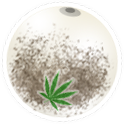
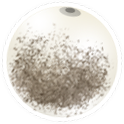
Bag and collectibles size

Changed region(s): [[0.2903, 0.5565, 0.6532, 0.8952]]

diff --git a/levels.js b/levels.js
@@ -38,7 +38,7 @@ var levels = [
                     flip: 0,
                     position: {x: 22, y: 13},
                     r: 45,
-                    size: {w: 0.5, h: 0.5},
+                    size: {w: 1, h: 1},
                     origin: {x: .25, h: .25}
                 },
                 {
@@ -47,7 +47,7 @@ var levels = [
                     flip: 0,
                     position: {x: 24, y: 13},
                     r: 45,
-                    size: {w: 0.5, h: 0.5},
+                    size: {w: 1, h: 1},
                     origin: {x: .25, h: .25}
                 },
                 {
@@ -56,7 +56,7 @@ var levels = [
                     flip: 0,
                     position: {x: 20, y: 13},
                     r: 45,
-                    size: {w: 0.5, h: 0.5},
+                    size: {w: 1, h: 1},
                     origin: {x: .25, h: .25}
                 }            ]
       }

diff --git a/http-server/public/levels.js b/http-server/public/levels.js
@@ -30,7 +30,7 @@ var levels = [
                     flip: 0,
                     position: {x: 22, y: 13},
                     r: 0,
-                    size: {w: 0.5, h: 0.5},
+                    size: {w: 1, h: 1},
                     origin: {x: .25, h: .25},
                 },
                 {
@@ -39,7 +39,7 @@ var levels = [
                     flip: 0,
                     position: {x: 24, y: 13},
                     r: 0,
-                    size: {w: 0.5, h: 0.5},
+                    size: {w: 1, h: 1},
                     origin: {x: .25, h: .25}
                 },
                 {
@@ -48,7 +48,7 @@ var levels = [
                     flip: 0,
                     position: {x: 20, y: 13},
                     r: 0,
-                    size: {w: 0.5, h: 0.5},
+                    size: {w: 1, h: 1},
                     origin: {x: .25, h: .25}
                 }
 
